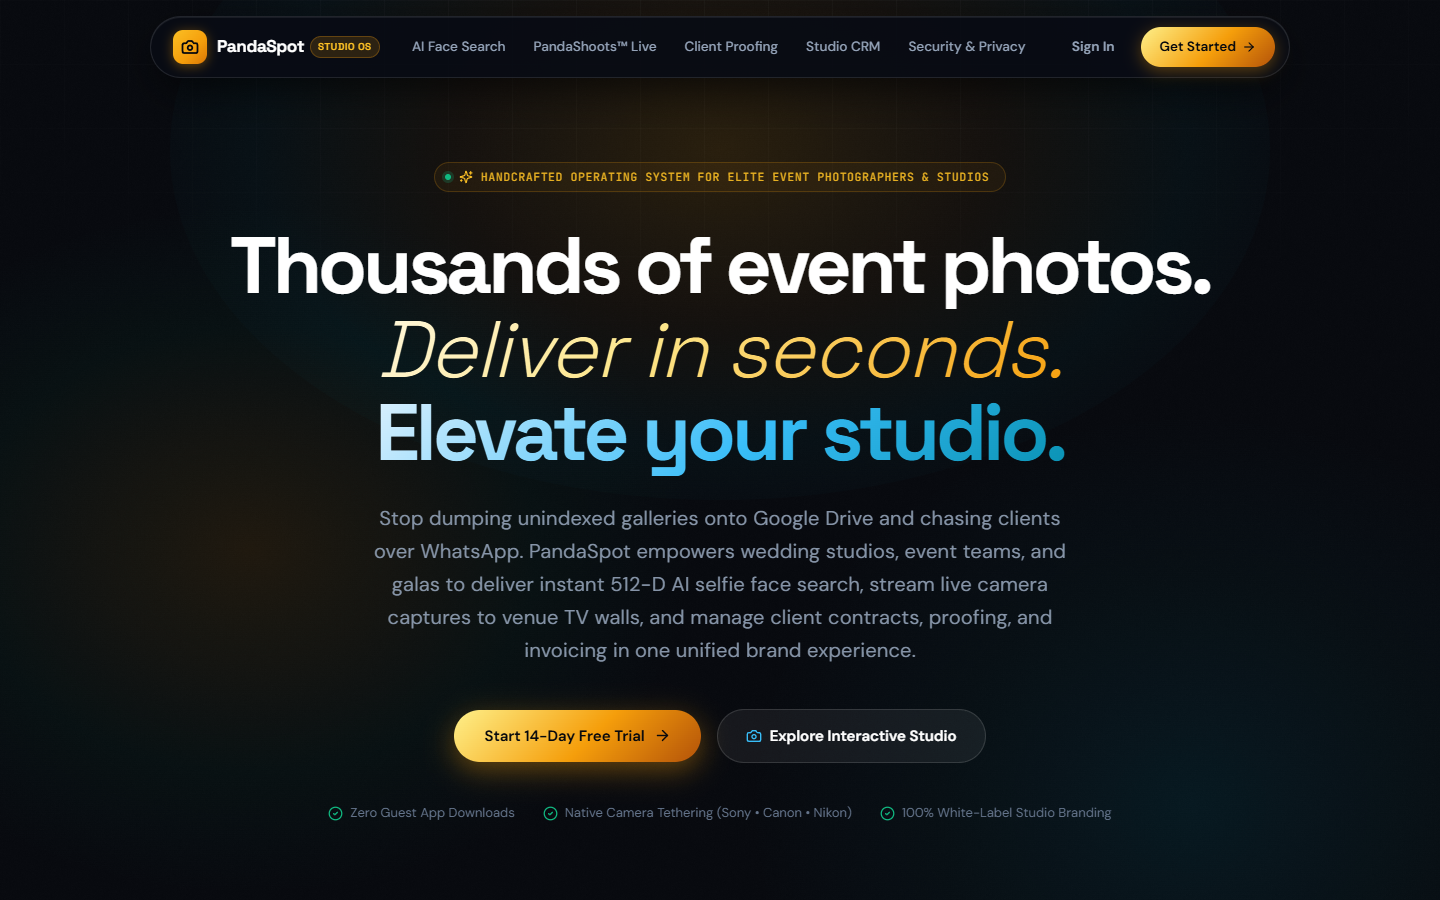
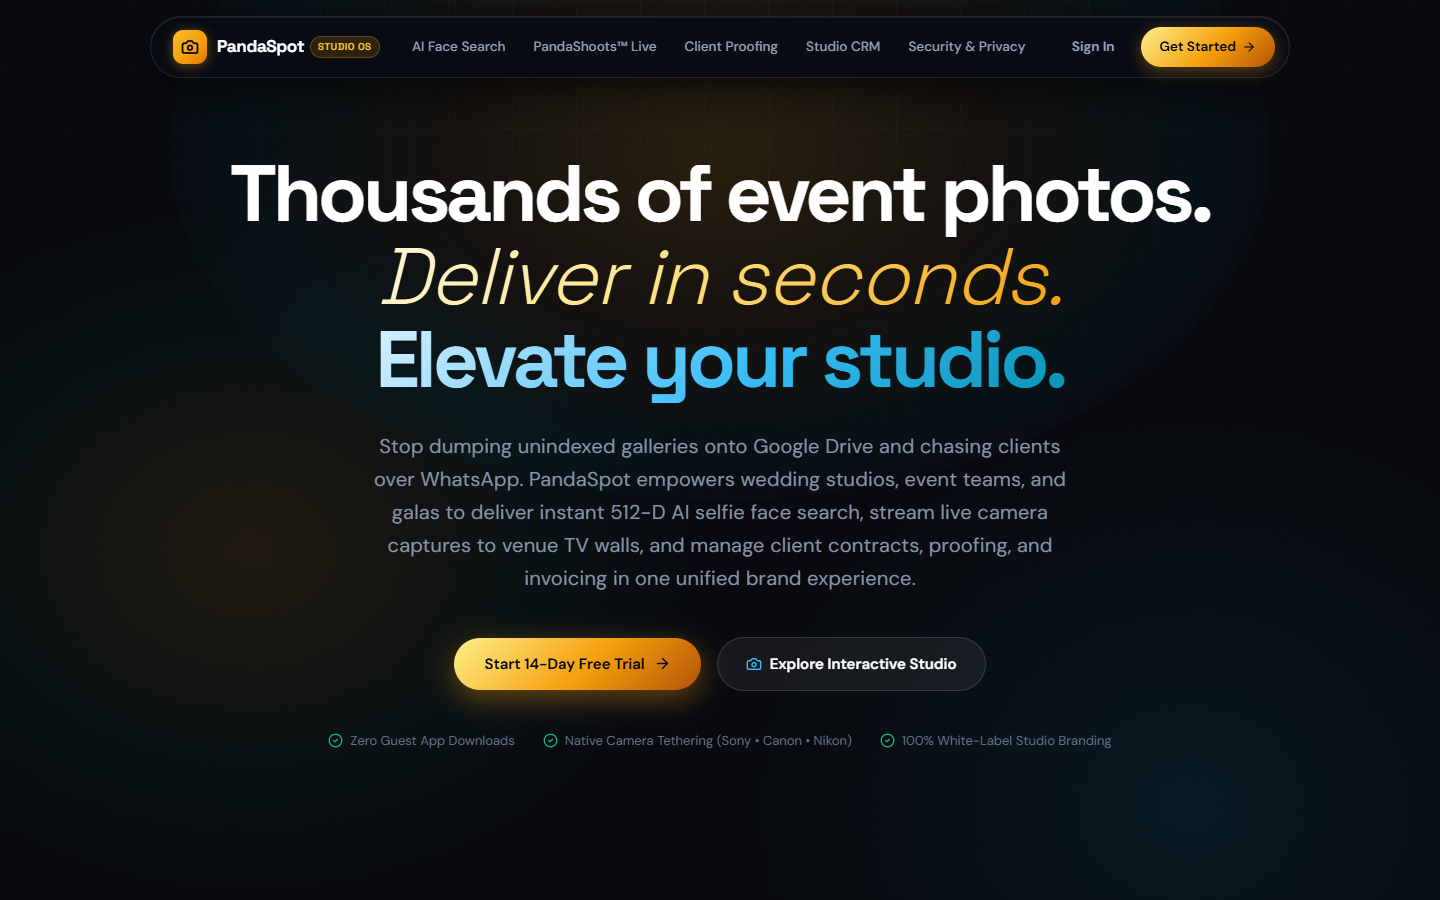
fix(landing): remove hero pill, reduce font size, fix scroll bounce-back

Changed region(s): [[0.1562, 0.1867, 0.8438, 0.8711], [0.3125, 0.9022, 0.3438, 0.9333]]

diff --git a/src/pages/public/Home.jsx b/src/pages/public/Home.jsx
@@ -6,7 +6,6 @@ import '../../styles/landing.css'
 
 import {
   ArrowRight,
-  Sparkles,
   CheckCircle2,
   XCircle,
   Clock,
@@ -165,10 +164,12 @@ export default function Home() {
   // Hardware-accelerated Lenis smooth scrolling with 0 React re-renders during scroll
   useEffect(() => {
     const lenis = new Lenis({
-      lerp: 0.1,           // Consistent linear interpolation — no overshoot bounce
+      lerp: 0.08,            // Smooth but no overshoot/bounce
       smoothWheel: true,
-      syncTouch: false,    // Native touch scroll (no lag on mobile)
-      touchMultiplier: 2,
+      wheelMultiplier: 1,    // No scroll amplification (prevents overshoot)
+      touchMultiplier: 1,    // Native-feeling touch
+      infinite: false,       // No infinite scroll
+      overscroll: false,     // Disable overscroll bounce
     })
 
     lenis.on('scroll', (e) => {
@@ -303,13 +304,8 @@ export default function Home() {
           =================================================================== */}
       <section className="landing-hero">
         <div className="landing-container">
-          <div className="landing-pill scroll-reveal">
-            <span className="landing-pill-pulse" />
-            <Sparkles size={14} style={{ color: '#fbbf24' }} />
-            <span>Handcrafted Operating System for Elite Event Photographers & Studios</span>
-          </div>
 
-          <h1 className="landing-hero-title scroll-reveal delay-1">
+          <h1 className="landing-hero-title scroll-reveal">
             Thousands of event photos.<br />
             <span className="editorial-italic">Deliver in seconds.</span><br />
             <span className="gradient-cyan">Elevate your studio.</span>

diff --git a/src/styles/landing.css b/src/styles/landing.css
@@ -288,9 +288,20 @@
    HERO SECTION (LUXURY EDITORIAL)
    ========================================================================== */
 .landing-hero {
-  padding: 100px 0 60px;
+  padding: 90px 0 55px;
   position: relative;
   text-align: center;
+}
+
+.landing-hero-title {
+  font-family: var(--p-font-heading);
+  font-size: clamp(32px, 4.6vw, 58px);
+  font-weight: 800;
+  letter-spacing: -0.04em;
+  line-height: 1.1;
+  margin: 0 auto 28px;
+  max-width: 940px;
+  color: #ffffff;
 }
 
 .landing-pill {
